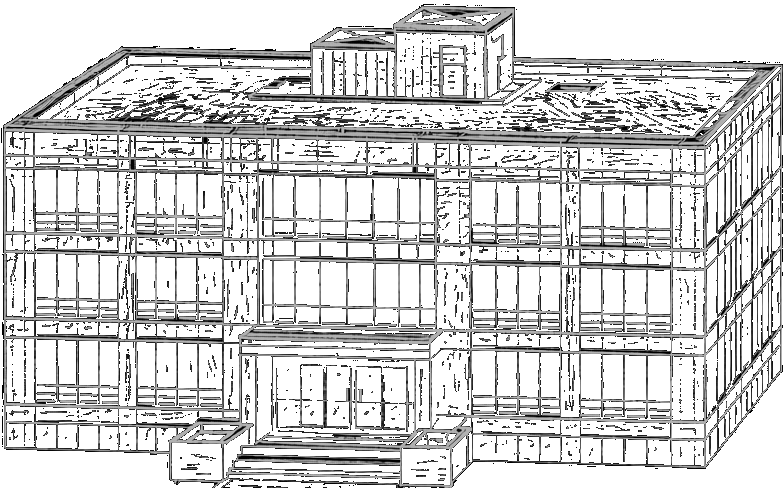
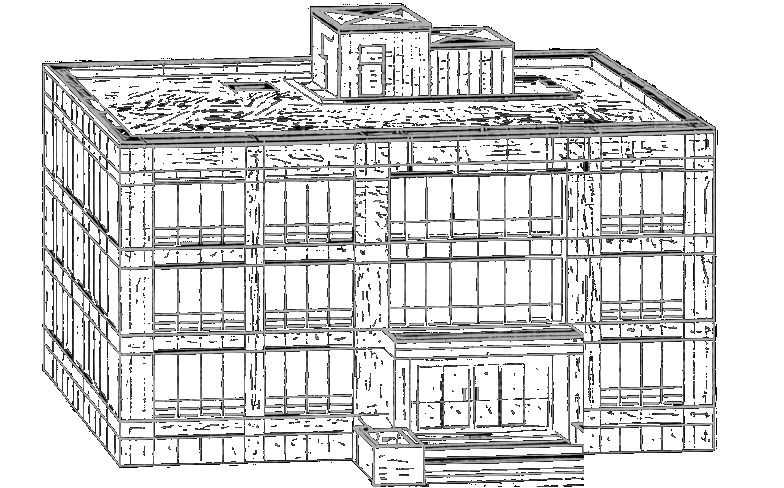
attempts at computer center building overlay for the map

diff --git a/docs/MAP_IMAGE_BRIEFS.md b/docs/MAP_IMAGE_BRIEFS.md
@@ -1,0 +1,148 @@
+# The Lurking Horror Map Building Overlay Briefs
+
+This document provides image-friendly location briefs (title + description) for art generation specifically for layouts of buildings on the map
+
+Style assumptions for consistency:
+
+View/camera:
+
+- frontal elevation
+- only sometimes: orthographic projection (no perspective distortion)
+- building centered, readable silhouette, wide negative space
+- black background, white monochrome linework only
+
+Style constraints:
+
+- technical blueprint / engraved line aesthetic done in wireframe with white lines on black background
+- hand-drafted stroke character, subtle texture
+- restrained detail, strong outline hierarchy
+- no people, no vehicles, no signage text, no labels, no color accents
+- horror mood via emptiness, exposure, and weather, not gore
+
+Prompts are now stored directly under each location entry (`- prompt:`), grouped by source/model section. Draft prompts for locations that do not yet have a per-location `- prompt:`.
+
+## ComfyUI Local Model Inventory
+
+Snapshot date: `2026-04-19`  
+Scanned path: `C:\AI\ComfyUI\user\models`
+
+### Checkpoints
+
+- `checkpoints/v1-5-pruned-emaonly-fp16.safetensors`
+
+### LoRAs
+
+- `loras/flux/Flux_2-Turbo-LoRA_comfyui.safetensors`
+- `loras/flux/Flux.1 RetroAnimeFluxV1.safetensors`
+- `loras/flux/Flux.1 RM_Artistify_v1.0M.safetensors`
+- `loras/flux/Flux.2 Klein 9B Lora - NSFW v2 solo girl.safetensors`
+- `loras/qwen/Qwen-Image-Edit-2509-Lightning-4steps-V1.0-bf16.safetensors`
+
+### Core Non-Checkpoint Model Files (workflow-critical)
+
+- `unet/flux1-schnell-Q8_0.gguf`
+- `diffusion_models/flux1/flux1-schnell-Q8_0.gguf`
+- `diffusion_models/flux2/flux2-klein-9b.safetensors`
+- `text_encoders/flux/clip_l.safetensors`
+- `text_encoders/flux/t5xxl_fp8_e4m3fn.safetensors`
+- `text_encoders/flux2/qwen38BFluxKlein9BTE_38b.safetensors`
+- `vae/flux/ae.safetensors`
+- `vae/flux2/flux2-vae.safetensors`
+- `vae/qwen/qwen_image_vae.safetensors`
+
+### Notes
+
+- `loras` appears empty at top level, but contains model files under subfolders (`flux`, `qwen`).
+- For map overlay workflows in this project, keep output style aligned with the black-background/white-line blueprint constraints defined in this document.
+
+## Preferred Overlay Workflow Stack
+
+Use these defaults first for map building overlays (Computer Center, Brown Building, Central Complex pass).
+
+### Stack A (Primary, FLUX linework pass)
+
+- Base model: `diffusion_models/flux1/flux1-schnell-Q8_0.gguf` (or `unet/flux1-schnell-Q8_0.gguf`, whichever your FLUX loader expects)
+- Text encoders: `text_encoders/flux/clip_l.safetensors` + `text_encoders/flux/t5xxl_fp8_e4m3fn.safetensors`
+- VAE: `vae/flux/ae.safetensors`
+- Optional LoRA: `loras/flux/Flux_2-Turbo-LoRA_comfyui.safetensors` at low weight (`0.25` - `0.45`)
+
+Recommended use:
+
+- Mode: image-to-image (use existing building overlay as structure reference)
+- Denoise strength: `0.30` - `0.45` (preserve silhouette/massing)
+- CFG/guidance: low to medium (`2.5` - `4.5`)
+- Steps: `12` - `20`
+- Resolution target: keep landscape around `1536x960` or `1600x1000`
+
+### Stack B (Fallback, strict structure lock)
+
+- Base checkpoint: `checkpoints/v1-5-pruned-emaonly-fp16.safetensors`
+- Use when FLUX outputs become too painterly or drift from building geometry.
+
+Recommended use:
+
+- Mode: image-to-image with lower denoise (`0.22` - `0.35`)
+- Steps: `24` - `36`
+- CFG: `5.0` - `7.0`
+- Keep prompts strict: no color, no people, no signage, white technical linework on black background.
+
+### Quick Selection Rule
+
+- Choose Stack A for best style quality and controlled blueprint mood.
+- Switch to Stack B when facade proportions or roof geometry must stay tighter to the source overlay.
+
+## prompts
+
+1. `Computer Center (65)`
+   - Title: `Computer Center: Midnight Lab`
+   - Literal description: `This is the lobby of the Computer Center. An elevator and call buttons are to the south. Stairs also lead up and down, for the energetic. To the north is Smith Street.`
+   - Description: A larger technical space with rows of equipment, reflective floors, and rain-muted light from outside. Emphasize old hardware geometry and a tense, after-hours atmosphere.
+   - prompt: Axonometric architectural engraving of an institutional Computer Center building, shown in a very shallow isometric projection (front-facing but with slight top and side visibility), no perspective distortion, parallel projection only. Style: ultra-detailed architectural copperplate engraving, crisp white linework on a pure black background, no gray tones, no gradients, no texture overlays. Clean, controlled line hierarchy: thick outer silhouette, medium structural lines, very fine interior detail. Subtle engraved character, not sketchy. Building: low-rise rectangular academic computer center (not a tower), three main floors plus basement level implied. Strong horizontal floor divisions visible on the facade. Symmetrical grid of windows. Central recessed main entrance facing Smith Street, with steps descending slightly, clearly defined but not exaggerated. Roof: flat and fully visible due to shallow axonometric angle, tarred surface with light pea-gravel texture indicated through sparse fine linework, subtle snow drift accumulation along edges. Minimal rooftop access structure (small stairwell door housing), simple and functional. Architectural detail: dense facade articulation (window mullions, frames, structural rhythm), precise and evenly spaced. No modern glass curtain wall look — more institutional, utilitarian. Environment: Smith Street runs directly toward the entrance, lightly indicated as a flat plane with minimal linework. Sparse, thin streetlights on either side, barely present. Weather: severe blizzard suggested with restrained directional line strokes only, no heavy texture, no obscuring of the building. Snow accumulation shown primarily on ground edges and roof, not as noise. Composition: building centered, isolated in black space with wide negative margins. Clean diagrammatic readability.Constraints: no people, no vehicles, no signage, no text, no labels, no color, no painterly effects, no perspective convergence. Wireframe, white lines on black background.
+
+
+14. `Small Courtyard (16)`
+   - Title: `Small Courtyard (16)`
+   - Literal description: `This courtyard is a triumph of modern architecture. It is spare, cold, angular, overwhelming in size, and bears a striking resemblance to a wind tunnel whenever the breeze picks up. Right now this is true of the whole campus, though. A huge mass lurks nearby, and an almost featureless skyscraper is to the north.`
+   - prompt: Massive angular modern courtyard in severe winter wind, spare and cold like an architectural wind tunnel, with looming building mass nearby. Emphasize scale, hard geometry, and hostile weather over decorative detail.
+
+22. `Engineering Building (38)`
+   - Title: `Engineering Building (38)`
+   - Literal description: `This building extends a long way south from the Infinite Corridor. It too is full of closed, locked offices.`
+
+36. `Temporary Lab (140)`
+   - Title: `Temporary Lab: Improvised Science`
+   - Literal description: `This is a laboratory of some sort. It takes up most of the building on this level, all the interior walls having been knocked down. (One reason these temporary buildings are still here is their flexibility: no one cares if they get more or less destroyed.) A stairway leads down, and a door leads north.`
+   - Description: A makeshift research room with benches, scattered instruments, taped labels, and unfinished setups. It should feel active but abandoned in a hurry.
+   - prompt: Improvised laboratory occupying a gutted temporary building floor where interior walls were removed, leaving open bays, scattered benches, and ad hoc research setups. Make it functional yet unstable, with makeshift order, abandoned urgency, and cold night lighting.
+
+
+39. `Fruits and Nuts (150)`
+   - Title: `Fruits and Nuts (150)`
+   - Literal description: `This is the central corridor of the Nutrition Building. The main building is south, and a stairway leads down.`
+   - prompt: Central corridor of the Nutrition Building with modest institutional finishes, connection south to main building, and stairway down. Make it look mundane at first glance but quietly deserted and tense.
+
+45. `Great Court (180)`
+   - Title: `Great Court (180)`
+   - Literal description: `In the spring and summer, this cheery green court is a haven from classwork. Right now, the majestic buildings of the main campus are almost invisible in the howling blizzard. A locked door bars your way to the north.`
+   - Description: Use the literal room text as the primary layout guide, with emphasis on: In the spring and summer, this cheery green court is a haven from classwork.
+   - prompt: Majestic campus court in blizzard conditions where architecture is barely visible through wind-driven snow, with a locked door to the north. Convey grandeur suppressed by weather and isolation.
+   - A black-and-white scratchboard illustration... Landscape orientation. A grand campus court consumed by a blizzard. Buildings barely visible through dense snow. Wind drives snow in violent horizontal streaks. A locked door to the north stands rigid against the storm. Architecture becomes abstract shapes. The mood is vast and erased - scale overwhelmed by weather.
+   - ChatGPT: A black-and-white scratchboard illustration, thin white lines cut into deep black, in the spirit of Albrecht Dürer and wax-paper scratchart. Landscape orientation, wide and open composition. A grand campus court in severe blizzard conditions, intended in warmer seasons to be a welcoming open haven, but now transformed into a hostile, nearly obliterated exterior space. The court is broad and formal, framed by majestic institutional buildings whose classical massing is only barely visible through blowing snow. Architecture should appear in fragments: faint facades, colonnades, windows, and upper masses emerging only intermittently through the storm. The buildings are large and imposing, but the blizzard reduces them to ghostly shapes and partial silhouettes. Wind drives snow across the court in violent, horizontal and diagonal streaks, filling the air so densely that depth becomes uncertain. Drifts gather unevenly across the ground, obscuring paths and flattening the court into a white, shifting surface. To the north, a locked door stands as a rigid, dark interruption in the storm - small compared to the surrounding architecture, but visually decisive. It should feel inaccessible, sealed, and absolute, a single clear boundary in an environment otherwise dissolved by weather. The court itself should retain traces of design beneath the snow: edges of paving, low walls, planters, or formal alignments barely readable under drifts. These remnants suggest that the space was meant to be orderly, social, and calm, making its present condition more unsettling. Lighting is diffuse and storm-muted, with no clear sunlight or source. Contrast comes from the black structure of architecture and doorways against snow-filled air. Visibility is low and unstable; distant surfaces fade quickly into whiteness. Use dense etched linework and crosshatching for the storm, with the snow rendered as cutting directional marks across deep blacks and pale surfaces. Let the architecture emerge only where line density allows it to break through the weather. Avoid human figures, footprints, or any signs of recent activity. The court should feel abandoned, wind-scoured, and emotionally emptied. The mood is grand, erased, and isolating - a place designed for relief and openness, now overwhelmed by weather until its scale and purpose are almost unreadable.
+
+48. `Mass. Ave. (190)`
+   - Title: `Mass. Ave. (190)`
+   - Literal description: `This is the main entrance to the campus buildings. Blinding snow obscures the stately Grecian columns and rounded dome to the east. You can barely make out the inscription on the pediment (which reads "George Vnderwood Edwards, Fovnder; P. David Lebling, Architect"). West across Massachusetts Avenue are other buildings, but you can't see them.`
+   - Description: Use the literal room text as the primary layout guide, with emphasis on: This is the main entrance to the campus buildings.
+   - prompt: Main campus entrance at Massachusetts Avenue under blinding snow, with classical columns and dome only faintly readable through storm haze. Compose as a public threshold reduced to silhouettes by weather.
+
+
+
+60. `Brown Building (240)`
+   - Title: `Brown Building (240)`
+   - Literal description: `This is the lobby of the Brown Building, an eighteen-story skyscraper which houses the Meteorology Department and other outposts of the Earth Sciences. The elevator is out of order, but a long stairway leads up to the roof, and another leads down to the basement. A revolving door leads out into the night.`
+   - Description: Use the literal room text as the primary layout guide, with emphasis on: This is the lobby of the Brown Building, an eighteen-story skyscraper which houses the Meteorology Department and other outposts of the Earth Sciences.
+
+61. `Chemistry Building (248)`
+   - Title: `Chemistry Building (248)`
+   - Literal description: `This corridor is lined with closed, dark offices. At the south end of the corridor is a door with a light shining behind it. There is something written on the door.`
+   - Description: Use the literal room text as the primary layout guide, with emphasis on: This corridor is lined with closed, dark offices.
